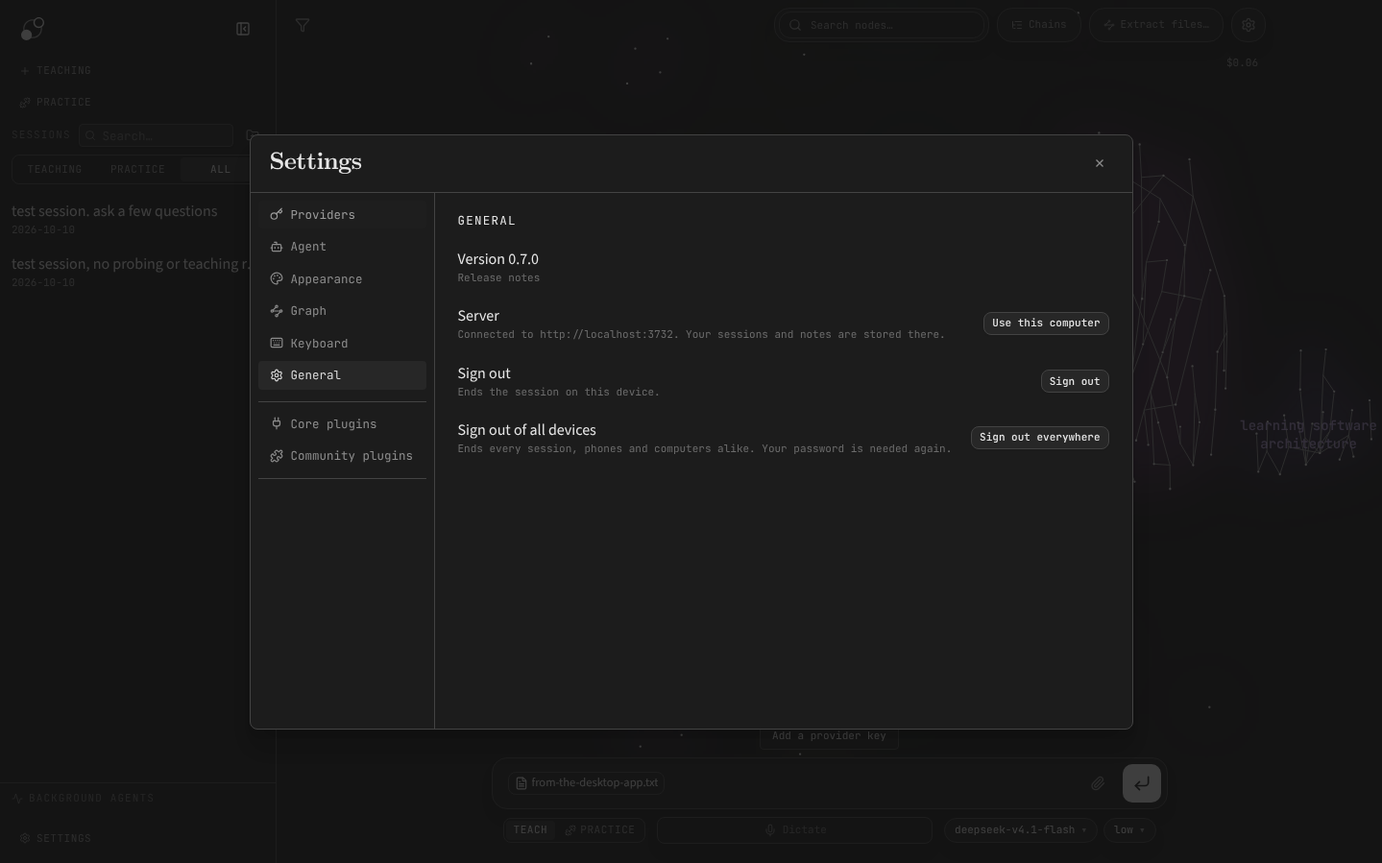
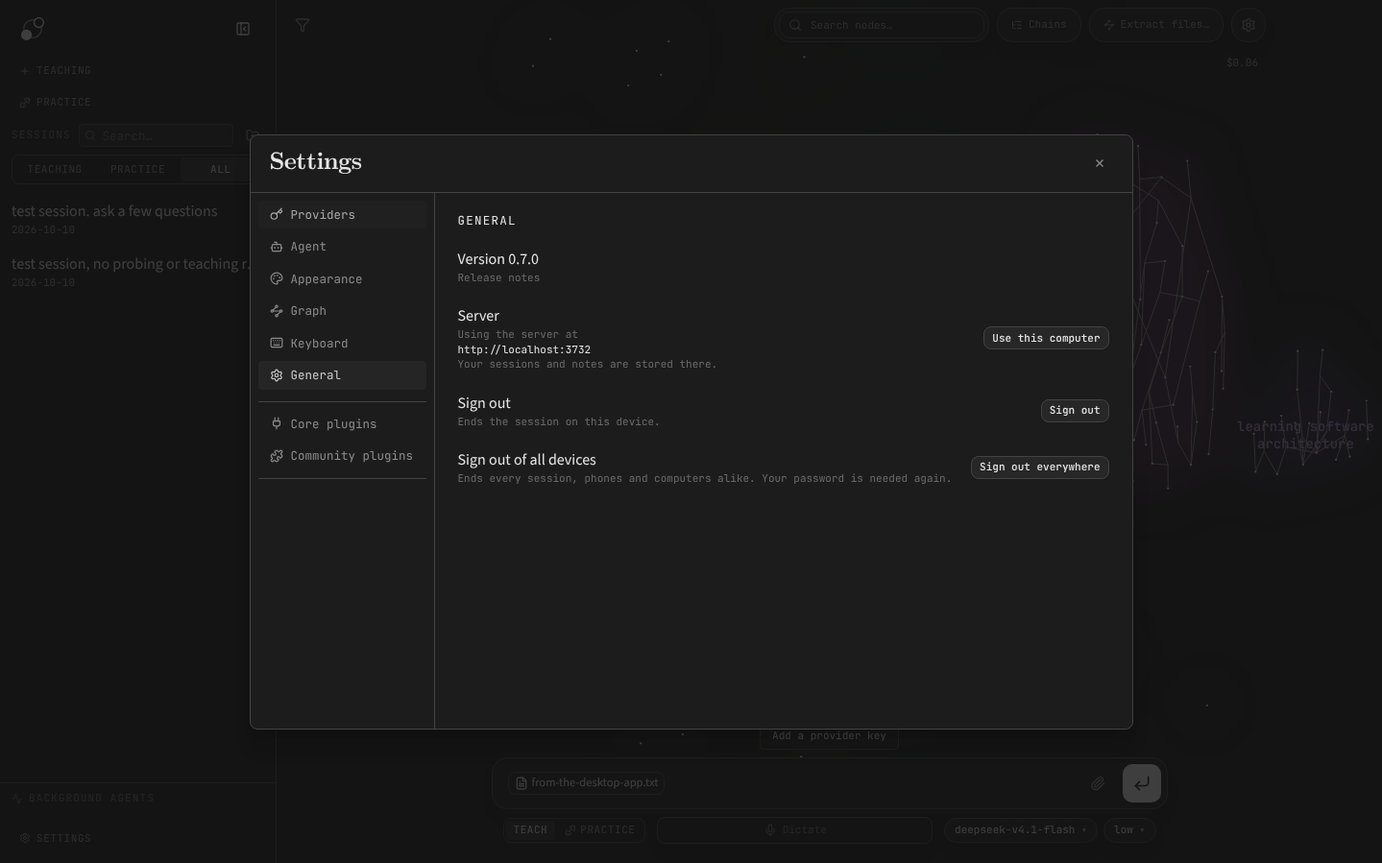
Desktop server setting: fixes from the independent test (story 7)
A hosted server whose proxy answers 502, 503 or 504 (the app behind it is
down) is now "not reachable" at launch instead of opening a bare error page:
the readiness probe takes a `ready` rule and a `label`, and the app counts
anything below 500 as up. The development shell keeps its own rule. The host
in an address must look like a real name (a dot, letters, digits and hyphens,
no empty or over-long part), so "https//x.com", "https:" and "a.com.." are
refused instead of becoming a server called "https". A server.json with a
byte-order mark is read. The log says "Server ... (answered 502)" and records
each saved choice. The Server row puts the address on its own line with
nothing after it ("Using the server at").

Tests: 54 in the four story files (was 48), 6 more for the `ready` rule in
desktop-dev-startup.test.ts; 66 deliberate breaks, all caught. Real Electron
18 of 18 and 7 of 7; the new 502 checks fail on the old rule.

Claude-Session: https://claude.ai/code/session_01FjJtUTjid7UtTPWPtqgwKS

diff --git a/tests/desktop-server-mode.test.ts b/tests/desktop-server-mode.test.ts
@@ -21,6 +21,7 @@ type Win = EventEmitter & { webContents: Contents; loaded: string[]; options: { 
 type Prompt = { message: string; buttons: string[]; defaultId: number };
 type MenuItem = { label?: string; click?: () => void; submenu?: MenuItem[] };
 type Handler = (event: unknown, ...args: unknown[]) => unknown;
+type ProbeOptions = { ready?: (statusCode: number) => boolean; label?: string; timeoutMs?: number };
 type HeaderHook = (details: unknown, callback: (result: { requestHeaders: Record<string, string> }) => void) => void;
 
 function tempDir(): string {
@@ -39,7 +40,7 @@ const plain = <T,>(value: T): T => (value === undefined ? value : (JSON.parse(JS
 function boot(options: { setting?: unknown; env?: Record<string, string>; probes?: (Error | null)[]; answers?: number[]; failSave?: boolean } = {}) {
 	const userData = tempDir();
 	if (options.setting !== undefined) writeFileSync(join(userData, "server.json"), typeof options.setting === "string" ? options.setting : JSON.stringify(options.setting));
-	const windows: Win[] = [], logs: string[] = [], probes: { url: string }[] = [], dialogs: unknown[][] = [], errorBoxes: unknown[][] = [];
+	const windows: Win[] = [], logs: string[] = [], probes: { url: string }[] = [], probeOptions: ProbeOptions[] = [], dialogs: unknown[][] = [], errorBoxes: unknown[][] = [];
 	const spawned: unknown[][] = [], handlers = new Map<string, Handler>();
 	const counts = { quit: 0, relaunch: 0, exits: 0, chatgpt: 0, subscriptions: 0 };
 	let headerHook: HeaderHook | null = null, menu: MenuItem[] = [];
@@ -98,7 +99,7 @@ function boot(options: { setting?: unknown; env?: Record<string, string>; probes
 					const real = mainRequire(id);
 					return { ...real, writeServerSetting: (...args: unknown[]) => { if (saveFails) throw Object.assign(new Error("EROFS: read-only file system"), { code: "EROFS" }); return real.writeServerSetting(...args); } };
 				}
-				case "./dev-server-readiness.cjs": return { waitForDevServer: async (url: string) => { probes.push({ url }); const failure = probeResults.shift(); if (failure) throw failure; } };
+				case "./dev-server-readiness.cjs": return { waitForDevServer: async (url: string, probe?: ProbeOptions) => { probes.push({ url }); probeOptions.push(probe ?? {}); const failure = probeResults.shift(); if (failure) throw failure; } };
 				default: return mainRequire(id);
 			}
 		},
@@ -112,7 +113,7 @@ function boot(options: { setting?: unknown; env?: Record<string, string>; probes
 
 	const win = () => windows[0]!;
 	return {
-		userData, windows, logs, probes, dialogs, errorBoxes, spawned, counts, handlers, done, win,
+		userData, windows, logs, probes, probeOptions, dialogs, errorBoxes, spawned, counts, handlers, done, win,
 		menu: () => menu,
 		headerHook: () => headerHook!,
 		failSaves: (on = true) => { saveFails = on; },
@@ -146,6 +147,17 @@ describe("the desktop app with a server saved in Settings", () => {
 		assert.equal(f.counts.chatgpt, 0);
 		assert.equal(f.counts.subscriptions, 0);
 		assert.ok(appMenu(f).some((item) => item.label === USE_COMPUTER), "the way back is in the app menu");
+		f.finish();
+	});
+
+	it("waits for the server with the rule that an answer below 500 is up and a proxy's 502, 503 or 504 is down", async () => {
+		const f = boot({ setting: { address: REMOTE } });
+		await f.done;
+		const probe = f.probeOptions[0]!;
+		assert.equal(probe.label, "Server");
+		assert.equal(probe.timeoutMs, 10000, "it does not wait the 30 seconds the development shell does");
+		for (const status of [200, 204, 302, 401, 403, 404]) assert.equal(probe.ready!(status), true, `${status} opens the window (the page can say what is wrong)`);
+		for (const status of [500, 502, 503, 504]) assert.equal(probe.ready!(status), false, `${status} is the server being down`);
 		f.finish();
 	});
 
@@ -214,6 +226,7 @@ describe("the desktop app with a server saved in Settings", () => {
 		await settle();
 		assert.equal(f.saved(), null, "the address is gone");
 		assert.deepEqual([f.counts.relaunch, f.counts.quit], [1, 1]);
+		assert.ok(f.logs.some((line) => /server choice saved: this computer$/.test(line)), "the change is in the log");
 		f.finish();
 	});
 
@@ -227,6 +240,14 @@ describe("the desktop app with a server saved in Settings", () => {
 		assert.equal(f.saved(), null);
 		assert.deepEqual([f.counts.relaunch, f.counts.quit], [1, 1]);
 		assert.ok(f.logs.some((line) => /server not reachable: did not respond/.test(line)));
+		f.finish();
+	});
+
+	it("logs why the server did not answer, with the last answer it gave", async () => {
+		const down = new Error("Server https://learn.example.com did not respond within 10000ms", { cause: new Error("answered 502") });
+		const f = boot({ setting: { address: REMOTE }, probes: [down], answers: [2] });
+		await f.done;
+		assert.ok(f.logs.some((line) => /server not reachable: Server https:\/\/learn\.example\.com did not respond within 10000ms \(answered 502\)$/.test(line)), f.logs.join("\n"));
 		f.finish();
 	});
 
@@ -338,6 +359,7 @@ describe("the desktop app on this computer (nothing saved)", () => {
 		await settle();
 		assert.equal(f.saved(), REMOTE);
 		assert.deepEqual([f.counts.relaunch, f.counts.quit], [1, 1]);
+		assert.ok(f.logs.some((line) => /server choice saved: https:\/\/learn\.example\.com$/.test(line)), "the change is in the log");
 		f.finish();
 	});
 
@@ -371,6 +393,8 @@ describe("the development shell", () => {
 		const f = boot({ setting: { address: REMOTE }, env: { LH_DEV_URL: "http://localhost:3000" } });
 		await f.done;
 		assert.deepEqual(f.probes, [{ url: "http://localhost:3000" }]);
+		assert.equal(f.probeOptions[0]!.ready, undefined, "an error page from the development server stays visible: no rule applies");
+		assert.equal(f.probeOptions[0]!.label, undefined);
 		assert.deepEqual(f.win().loaded, ["http://localhost:3000"]);
 		assert.deepEqual(plain(f.win().options.webPreferences.additionalArguments), ["--lh-web-subscriptions"]);
 		assert.deepEqual(await f.call("lh:server:get", f.fromPage()), { mode: "dev", address: null });

diff --git a/tests/desktop-dev-startup.test.ts b/tests/desktop-dev-startup.test.ts
@@ -13,7 +13,7 @@ import { runInNewContext } from "node:vm";
 
 const mainFile = fileURLToPath(new URL("../electron/main.cjs", import.meta.url));
 const mainSource = readFileSync(mainFile, "utf8"), mainRequire = createRequire(mainFile);
-type Options = { signal?: AbortSignal; timeoutMs?: number; retryMs?: number };
+type Options = { signal?: AbortSignal; timeoutMs?: number; retryMs?: number; ready?: (statusCode: number) => boolean; label?: string };
 const waitForDevServer = (url: string, options?: Options): Promise<void> => mainRequire("./dev-server-readiness.cjs").waitForDevServer(url, options);
 const short = { timeoutMs: 200, retryMs: 10 };
 async function endpoint(reply: http.RequestListener, test: (url: string, idle: () => Promise<void>) => Promise<void>) {
@@ -101,6 +101,64 @@ describe("development server readiness", () => {
 		const controller = new AbortController(); controller.abort(new Error("already quit")); let requests = 0;
 		await endpoint(() => { requests++; }, async url => {
 			await assert.rejects(waitForDevServer(url, { signal: controller.signal }), /already quit/); await delay(40); assert.equal(requests, 0);
+		});
+	});
+});
+
+// The desktop app's "Server" setting probes a hosted server the same way, but a 502/503/504 from the proxy in front of
+// a stopped app is "down", not "up" (`ready` says which answers count; docs/mobile/desktop-server.md).
+describe("server readiness with a `ready` rule", () => {
+	const serverRule = (status: number) => status < 500;
+	it("keeps trying while the answer is one it refuses, and stops at the first one it accepts", async () => {
+		const answers = [502, 503, 504, 200]; let requests = 0;
+		await endpoint((_req, res) => { requests++; res.writeHead(answers.shift() ?? 200); res.end("answer"); }, async (url, idle) => {
+			await waitForDevServer(url, { timeoutMs: 2000, retryMs: 10, ready: serverRule, label: "Server" });
+			await idle(); await delay(40); assert.equal(requests, 4, "three refused answers, one accepted, nothing after");
+		});
+	});
+	it("counts the answers a sign-in page and an unset password give (200, 302, 403, 404) as up", async () => {
+		for (const status of [200, 302, 403, 404]) {
+			let requests = 0;
+			await endpoint((_req, res) => { requests++; res.writeHead(status, status === 302 ? { location: "/login" } : {}); res.end(); }, async (url, idle) => {
+				await waitForDevServer(url, { ...short, ready: serverRule }); await idle(); assert.equal(requests, 1, `status ${status}`);
+			});
+		}
+	});
+	it("gives up on an answer it keeps refusing at the total deadline, naming the server, the answer and every connection closed", async () => {
+		let requests = 0;
+		await endpoint((_req, res) => { requests++; res.writeHead(502); res.end("Bad Gateway"); }, async (url, idle) => {
+			const start = Date.now();
+			await assert.rejects(waitForDevServer(url, { ...short, ready: serverRule, label: "Server" }), (error: Error) => {
+				assert.ok(error.message.startsWith(`Server ${url} did not respond within 200ms`), error.message);
+				assert.match(String(error.cause), /answered 502/);
+				return true;
+			});
+			assert.ok(Date.now() - start < 2000); await idle(); assert.ok(requests > 1, "a refused answer is tried again");
+			const seen = requests; await delay(60); assert.equal(requests, seen, "and nothing is tried after the deadline");
+		});
+	});
+	it("closes the connection of a refused answer even when that answer never finishes", async () => {
+		let requests = 0;
+		await endpoint((_req, res) => { requests++; res.writeHead(503); res.write("starting up"); }, async (url, idle) => {
+			await assert.rejects(waitForDevServer(url, { ...short, ready: serverRule }), /did not respond within 200ms/);
+			await idle(); assert.ok(requests > 1, "it tried again without waiting for the end of the answer");
+		});
+	});
+	it("treats an answer as ready when no rule is given (a development error page must stay visible), and says 'Development server'", async () => {
+		await endpoint((_req, res) => { res.writeHead(502); res.end("Next error page"); }, async (url, idle) => {
+			await waitForDevServer(url, short); await idle();
+		});
+		await endpoint(() => {}, async url => {
+			await assert.rejects(waitForDevServer(url, short), /^Error: Development server /);
+		});
+	});
+	it("is cancelled between two refused answers like any other probe", async () => {
+		const controller = new AbortController(); let requests = 0, seen!: () => void;
+		const first = new Promise<void>(resolve => { seen = resolve; });
+		await endpoint((_req, res) => { requests++; res.writeHead(503); res.end(); seen(); }, async (url, idle) => {
+			const waiting = waitForDevServer(url, { signal: controller.signal, timeoutMs: 2000, retryMs: 200, ready: serverRule });
+			await first; await delay(30); controller.abort(new Error("quit between answers"));
+			await assert.rejects(waiting, /quit between answers/); await idle(); await delay(250); assert.equal(requests, 1);
 		});
 	});
 });

diff --git a/tests/server-setting.test.ts b/tests/server-setting.test.ts
@@ -70,6 +70,31 @@ describe("typing a server address", () => {
 		assert.equal(normalizeServerAddress("learn.example.com:").ok, true);
 	});
 
+	it("a host name nobody could have meant is refused: what is left of a mistyped scheme, a name with no dot, an empty or over-long part", () => {
+		for (const typed of [
+			"https//learn.example.com", "https:", "https://https", "learn", "https://learn", "learn.example.com..", ".example.com", "learn..example.com",
+			"-learn.example.com", "learn-.example.com", "le_arn.example.com", `${"a".repeat(64)}.example.com`, `${"ab.".repeat(90)}com`,
+		]) {
+			const result = normalizeServerAddress(typed);
+			assert.equal(result.ok, false, typed);
+			assert.match((result as { error: string }).error, /server's address/, typed);
+		}
+	});
+
+	it("every real shape of host name is still accepted: a trailing dot, an address, punycode, hyphens, a 63-character part", () => {
+		for (const [typed, origin] of [
+			["learn.example.com.", "https://learn.example.com."],
+			["203.0.113.5", "https://203.0.113.5"],
+			["https://[2001:db8::1]:8443", "https://[2001:db8::1]:8443"],
+			["xn--e1afmkfd.example.com", "https://xn--e1afmkfd.example.com"],
+			["my-learn-server.example.co.uk", "https://my-learn-server.example.co.uk"],
+			["1.example.com", "https://1.example.com"],
+			[`${"a".repeat(63)}.example.com`, `https://${"a".repeat(63)}.example.com`],
+			["localhost", "http://localhost"],
+			["[::1]:3000", "http://[::1]:3000"],
+		] as const) assert.deepEqual(normalizeServerAddress(typed), { ok: true, origin }, typed);
+	});
+
 	it("refuses spaces, line breaks and a port that cannot be used, instead of quietly changing them", () => {
 		for (const typed of ["learn\nexample.com", "learn.example.com\tx", "learn example.com", "learn.example.com:0", "https://learn.example.com:0", "localhost:0"]) {
 			assert.equal(normalizeServerAddress(typed).ok, false, JSON.stringify(typed));
@@ -145,6 +170,22 @@ describe("the saved server", () => {
 		assert.throws(() => writeServerSetting(dir, ""), /address/);
 		assert.equal(readServerSetting(dir).origin, "https://learn.example.com");
 		assert.deepEqual(readdirSync(dir), [FILE]);
+		cleanup(dir);
+	});
+
+	it("a file that starts with a byte-order mark (Windows Notepad adds one) is still read", () => {
+		const dir = scratch();
+		writeFileSync(join(dir, FILE), `\uFEFF${JSON.stringify({ address: "https://learn.example.com" })}\n`);
+		assert.deepEqual(readServerSetting(dir), { origin: "https://learn.example.com", ignored: null });
+		cleanup(dir);
+	});
+
+	it("an address in the file that is not a real host name is ignored like any other unusable one", () => {
+		const dir = scratch();
+		writeFileSync(join(dir, FILE), JSON.stringify({ address: "https://https" }));
+		const read = readServerSetting(dir);
+		assert.equal(read.origin, null);
+		assert.match(read.ignored ?? "", /server's address/);
 		cleanup(dir);
 	});
 

diff --git a/tests/server-settings.test.tsx b/tests/server-settings.test.tsx
@@ -64,6 +64,7 @@ test("on this computer it says so and offers an address box with Connect", async
 	assert.equal(input().getAttribute("placeholder"), "learn.example.com");
 	assert.equal(byTest("server-connect")!.textContent!.trim(), "Connect");
 	assert.equal(byTest("server-use-computer"), null);
+	assert.equal(byTest("server-origin"), null, "no address line on this computer");
 });
 
 test("Connect sends what was typed, untouched, and then shows that the app is restarting", async () => {
@@ -112,7 +113,9 @@ test("a request that fails outright says so instead of hanging", async () => {
 
 test("with a server it names it and offers only the way back to this computer", async () => {
 	const asked = await mount({ mode: "remote", address: "https://learn.example.com" });
-	assert.match(byTest("server-state")!.textContent!, /Connected to https:\/\/learn\.example\.com\. Your sessions and notes are stored there\./);
+	assert.equal(byTest("server-state")!.textContent, "Using the server at");
+	assert.equal(byTest("server-origin")!.textContent, "https://learn.example.com", "the address alone on its line, with no full stop after it");
+	assert.match(host!.textContent!, /Your sessions and notes are stored there\./);
 	assert.equal(document.querySelector("input"), null);
 	await act(async () => byTest("server-use-computer")!.click());
 	assert.deepEqual(asked, [null]);

diff --git a/components/settings/server-settings.tsx b/components/settings/server-settings.tsx
@@ -45,9 +45,12 @@ export function ServerSettings() {
 			testid="row-server"
 			hint={
 				<>
-					<span className="block [overflow-wrap:anywhere]" data-testid="server-state">
-						{remote ? `Connected to ${state.address}. Your sessions and notes are stored there.` : "Using this computer. Your sessions and notes are stored here."}
+					<span className="block" data-testid="server-state">
+						{remote ? "Using the server at" : "Using this computer. Your sessions and notes are stored here."}
 					</span>
+					{/* On its own line and with nothing after it: a full stop next to an address reads as part of it, and a line selects cleanly to copy. */}
+					{remote && <span className="block select-all text-foreground [overflow-wrap:anywhere]" data-testid="server-origin">{state.address}</span>}
+					{remote && <span className="block">Your sessions and notes are stored there.</span>}
 					{message && <span id="lh-server-message" className={message.error ? "block text-error" : "block"} role={message.error ? "alert" : "status"} data-testid="server-message">{message.text}</span>}
 				</>
 			}

diff --git a/docs/mobile/desktop-server.md b/docs/mobile/desktop-server.md
@@ -13,7 +13,7 @@ Nothing is copied when you switch. Your sessions on this computer stay where the
 3. The app restarts and opens the server's login page. Sign in as you do on a phone.
 4. To go back, open Settings → General → Server and press **Use this computer** (confirm "Use This Computer and Restart"). If the server is down and Settings cannot load, the app menu (the LearnHarness menu on a Mac) has **Use This Computer Instead of the Server…**.
 
-What the box accepts: an address with `https://` (or without it, which means https). Plain `http://` is accepted only for this computer (`localhost`, `127.0.0.1`, `[::1]`), so you can try the feature without hosting anything. A path, query or fragment is dropped (the app always opens the root). A user name or password in the address, any scheme other than http and https (and a slip such as `http:/`, which would otherwise become a host called "http"), a space or line break inside, and port 0 are refused with a message in the row, and no dialog opens. If the choice is confirmed but cannot be saved (the app's data folder cannot be written), the row says so and the app does not restart.
+What the box accepts: an address with `https://` (or without it, which means https). Plain `http://` is accepted only for this computer (`localhost`, `127.0.0.1`, `[::1]`), so you can try the feature without hosting anything. A path, query or fragment is dropped (the app always opens the root). The host must look like a real one: a full name with at least one dot (`learn.example.com`; a trailing dot is fine), made of letters, digits and hyphens, no part longer than 63 characters or starting or ending with a hyphen, at most 253 characters in all. An IP address, `localhost` and `[::1]` are fine as they are. A user name or password in the address, any scheme other than http and https (and a slip such as `http:/` or `https//`, which would otherwise become a host called "http" or "https"), a host that is not a real name ("That doesn't look like a server's address. Use the whole name, like learn.example.com."), a space or line break inside, and port 0 are refused with a message in the row, and no dialog opens. If the choice is confirmed but cannot be saved (the app's data folder cannot be written), the row says so and the app does not restart.
 
 ## What switches off while a server is in use
 
@@ -30,25 +30,28 @@ The app starts no server on this computer, so everything that assumed one is gon
 
 ## If the server does not answer
 
-At launch the app waits up to 10 seconds for the address. If nothing answers, it shows "Can't reach <address>" with **Try Again**, **Use This Computer** (restarts the app on this computer) and **Quit**. It never opens an empty window. (If **Use This Computer** cannot be saved, an error box says so and the question comes back.)
+At launch the app waits up to 10 seconds for the address, trying again every fraction of a second. If nothing answers, it shows "Can't reach <address>" with **Try Again**, **Use This Computer** (restarts the app on this computer) and **Quit**. It never opens an empty window. (If **Use This Computer** cannot be saved, an error box says so and the question comes back.)
+
+What counts as an answer: anything below 500. The login page (200 or a redirect), "no password set yet" (403) and a missing page (404) all open the window, because the page can say what is wrong. A **502, 503 or 504** does not count: that is what the web server in front of the app (Caddy, in story 8's setup) answers while the app behind it is stopped or starting, so the app keeps trying for the 10 seconds and then shows the dialog. `logs/main.log` says which: `server not reachable: Server https://… did not respond within 10000ms (answered 502)`. (The development shell, `LH_DEV_URL`, keeps its own rule: any answer, even an error page, because the error page is what a developer needs to see.)
 
 ## Safety
 
 - **https only**, except for this computer.
 - **No secret leaves the app.** In server mode no desktop secret exists, and the header hook that strips `x-learnharness-desktop` from every request stays on. In a real Electron window pointed at a server through a logging proxy, 55 requests went out (24 of them to `/api`) and none carried the header.
 - **A web page cannot change the setting by itself.** The `lh:server:set` channel is accepted only from the app's own window (trusted window and sender), validates the address again in the main process, and always ends in the native confirmation with Cancel as the default button.
-- **Only the origin is stored**, in `server.json` in the app's data folder (mode 0600, written to a temporary file and renamed). A file that is there but unusable is ignored, and the reason goes to `logs/main.log`, so the app still starts.
+- **Only the origin is stored**, in `server.json` in the app's data folder (mode 0600, written to a temporary file and renamed). A file that is there but unusable (not JSON, or an address that is not a real host name) is ignored, and the reason goes to `logs/main.log`, so the app still starts; a byte-order mark at the start, which Windows Notepad adds, does not make a file unusable. Each saved choice is logged too (`server choice saved: https://learn.example.com` or `… this computer`).
 - **The page is the server's page.** Pointing the app at a server means trusting that server with the window, as with any site in a browser. The bridge the page gets in this mode is: window controls and zoom, the platform name, appearance, checking for updates, reading the update state and (once one is downloaded) restarting to install it, the startup message, the Settings shortcut and the server setting; not the folder picker, file paths or the subscription sign-ins. A page from the server can therefore ask for an update the app has already downloaded to be installed, but cannot download or choose one.
 - **A page can ask, never answer.** It can call the switch question as often as it likes (after you press Cancel it can ask again), but the question is a native dialog it cannot press. The app menu's **Use This Computer Instead of the Server…** is the way out if a page keeps asking; if one question is open, the menu item waits for it.
 - **The development shell** (`LH_DEV_URL`, used by `npm run desktop:dev`) ignores the setting and always uses its own server.
 
 ## Where the code is
 
-- `electron/server-setting.cjs` (new, pure, no Electron import): `normalizeServerAddress`, `readServerSetting`, `writeServerSetting`, the window argument `--lh-server=<mode>` and the two native prompts.
+- `electron/server-setting.cjs` (new, pure, no Electron import): `normalizeServerAddress` (with `plausibleHost`), `readServerSetting`, `writeServerSetting`, the window argument `--lh-server=<mode>` and the two native prompts.
+- `electron/dev-server-readiness.cjs` (existing, used by the development shell): two new optional settings, `ready` (which HTTP answers count, the rule above) and `label` (what an error calls the thing it waited for). Without them it behaves as before.
 - `electron/main.cjs`: reads the setting once in `main()`; in server mode starts no child server and no ChatGPT or subscription bridge, creates no desktop secret, waits for the address (`serverAnswers`) and opens it; the `lh:server:get` and `lh:server:set` handlers; `askToSwitchServer` and `relaunchWithServer`; the app-menu item; the `lh:attachment:pick` handler is registered only when the app runs its own server, so in server mode nothing answers that channel.
 - `electron/preload.cjs`: reads the mode from the window argument; in server mode leaves out `getPathForFile`, `chooseAttachmentFolder`, `chatgpt` and `subscriptions` (the renderer keys each feature on the member being there, so it falls back to uploads and the web connections); adds `server: { get, set }`.
 - `components/settings/server-settings.tsx` (new), rendered in `components/settings/settings-dialog.tsx` between the update rows and the sign-out rows; the `Window.lh.server` type in `components/sidebar.tsx`.
-- `tests/server-setting.test.ts` (16), `tests/server-mode-preload.test.ts` (5), `tests/desktop-server-mode.test.ts` (19, runs the real `main.cjs` in a sandbox with a fake Electron), `tests/server-settings.test.tsx` (8).
+- `tests/server-setting.test.ts` (20), `tests/server-mode-preload.test.ts` (5), `tests/desktop-server-mode.test.ts` (21, runs the real `main.cjs` in a sandbox with a fake Electron), `tests/server-settings.test.tsx` (8), and 6 more in `tests/desktop-dev-startup.test.ts` for the `ready` rule.
 
 ## Trying it without AWS
 
@@ -71,7 +74,7 @@ printf '{"address":"http://localhost:3000"}\n' > "$SCRATCH/server.json"
 npx electron . --user-data-dir="$SCRATCH"
 ```
 
-The window opens the server's login page (sign in with the password above), then the app as usual. Open Settings → General: the Server row says "Connected to http://localhost:3000" and offers **Use this computer**. Things to try:
+The window opens the server's login page (sign in with the password above), then the app as usual. Open Settings → General: the Server row says "Using the server at" with `http://localhost:3000` on the next line, and offers **Use this computer**. Things to try:
 
 - Attach a file in a session: the system file picker opens and the file is uploaded to the server; there is no folder picker.
 - Stop the server and start the app again: after about 10 seconds a dialog says "Can't reach http://localhost:3000" with Try Again, Use This Computer and Quit. Start the server and press Try Again: the app opens.
@@ -84,7 +87,7 @@ The other state of the row, the address box with **Connect**, appears only when 
 
 The real Electron app (unpackaged, under a virtual display), pointed at a server. The file in the composer was picked in the app and uploaded to the server:
 
-![Settings → General in the desktop app with a server: "Connected to …" and a "Use this computer" button](screens/s7-server-row-server-electron.png)
+![Settings → General in the desktop app with a server: "Using the server at", the address on its own line, and a "Use this computer" button](screens/s7-server-row-server-electron.png)
 
 The row when the app is on this computer: the address box and **Connect**, here after typing a plain-http address. A packaged app is needed to see this for real, so this picture is the same production page in a browser with a stand-in for the desktop bridge:
 
@@ -94,9 +97,9 @@ The row when the app is on this computer: the address box and **Connect**, here 
 
 Real Electron, unpackaged, under a virtual display on Linux, against a production build of this branch with a password set (both scripts are described in the pull request):
 
-- **Pointed at a server** (16 checks). The window opens the saved address and the login page works inside Electron. The bridge says `remote` at that address, has no folder picker, path resolver, ChatGPT or subscriptions, and keeps the window controls, zoom, update and Settings members. It refuses plain http to another host, an empty box and the address already in use, without asking anything. Attach is the browser's file picker (no "files or folder" menu), and a picked file is uploaded (`POST /api/uploads` answered 201; the file shows in the composer in the first picture below). Settings → General has the Server row with **Use this computer**. Through a logging proxy 55 requests went out, 24 of them to `/api`, and none carried the desktop header. `main.log` says "using the server at …" and never "starting server". A saved address that does not answer is logged as unreachable and no window is opened.
+- **Pointed at a server** (18 checks). The window opens the saved address and the login page works inside Electron. The bridge says `remote` at that address, has no folder picker, path resolver, ChatGPT or subscriptions, and keeps the window controls, zoom, update and Settings members. It refuses plain http to another host, an empty box and the address already in use, without asking anything. Attach is the browser's file picker (no "files or folder" menu), and a picked file is uploaded (`POST /api/uploads` answered 201; the file shows in the composer in the first picture below). Settings → General has the Server row with **Use this computer**. Through a logging proxy 55 requests went out, 24 of them to `/api`, and none carried the desktop header. `main.log` says "using the server at …" and never "starting server". A saved address that does not answer is logged as unreachable and no window is opened, and so is one that answers only `502 Bad Gateway` (a small server standing in for a proxy in front of a stopped app; before the `ready` rule this opened the window onto the bare error page, which this check then showed).
 - **Switching back** (7 checks). Pressing **Use this computer** asks the native confirmation once, with Cancel as the default button (a stand-in answered it, because nobody can click a dialog on a virtual display). Then the app quits, `server.json` is gone, and a new instance starts with the same command line (`--user-data-dir` kept) in this-computer mode: `main.log` says "starting server" and does not use the old address again. That new instance then fails to spawn a server, because an unpackaged app has none; that is the unpackaged app's own limit, not the switch.
-- **Tests**: 48 new tests in four files (16 + 5 + 19 + 8) and one existing assertion brought up to date (a normal window now carries `--lh-server=local`, in `tests/desktop-platform.test.ts`). Each of 44 deliberate breaks of the code was caught by at least one of them. `tsc` is clean, `eslint` has no errors, `next build` passes. The whole suite on the merged branch: 5,868 tests, 5,857 pass. The 6 that fail and the 1 file the runner cancelled are this sandbox's known failures (it runs Node 22, CI runs Node 26), in code this story does not touch: a tooltip timing test, the plugin document proxy, three safe-fetch tests, one subscription sign-in test, and the whole `tests/safe-fetch.test.ts` file.
+- **Tests**: 54 new tests in four files (20 + 5 + 21 + 8), 6 more in the existing `tests/desktop-dev-startup.test.ts` (the `ready` rule, against a real HTTP server), and one existing assertion brought up to date (a normal window now carries `--lh-server=local`, in `tests/desktop-platform.test.ts`). Each of 66 deliberate breaks of the code was caught by at least one of them. `tsc` is clean, `eslint` has no errors, `next build` passes. The whole suite on the merged branch: 5,887 tests, 5,876 pass. The 6 that fail and the 1 file the runner cancelled are this sandbox's known failures (it runs Node 22, CI runs Node 26), in code this story does not touch: a tooltip timing test, the plugin document proxy, three safe-fetch tests, one subscription sign-in test, and the whole `tests/safe-fetch.test.ts` file.
 
 **Not checked.** The packaged and signed app on macOS or Windows. **Connect** → confirmation → restart in a real window (an unpackaged run has no this-computer mode to start from; the same code is covered with a fake Electron in `tests/desktop-server-mode.test.ts`, and the mirror image, switching back, is the second check above). The words "Restarting…" in a real window (the window closes too fast to see them; the component test covers them). A hosted server with real HTTPS and a real domain (story 8).
 
@@ -107,4 +110,7 @@ Real Electron, unpackaged, under a virtual display on Linux, against a productio
 - **How you get a build of the fork.** The installed app updates itself from the original project's releases, and `npm run desktop:dist` signs with the original author's Apple team ID. Getting a build of this fork onto your Mac (and keeping it updated) is part of story 8's guide.
 - **The "can't reach" check.** It uses the app's Node network stack, not the window's. A server whose certificate only this computer's system trusts (a private or company authority), or that can be reached only through a system proxy, would be reported as unreachable, and Try Again cannot fix that. A public site with a Let's Encrypt certificate, which is what story 8 sets up, is not affected.
 - **First paint.** The window's native chrome (title bar colour) comes from the local appearance setting until the server's page reports its own, so a different theme on the server shows for a moment.
+- **Waiting looks like nothing.** While the app waits up to 10 seconds for a slow or down server there is no window and no splash.
+- **A wrong but working address opens that page.** Anything that answers below 500 opens, so a typo that happens to be a real site shows that site. On Windows and Linux the way back, the app menu, is behind Alt. A check that the page is LearnHarness (a small health answer) would close this.
+- **No direct switch from one server to another.** Go back to this computer, then type the other address.
 - **Not tested here:** a packaged and signed app on macOS or Windows. The checks used the unpackaged app under a virtual display on Linux.
